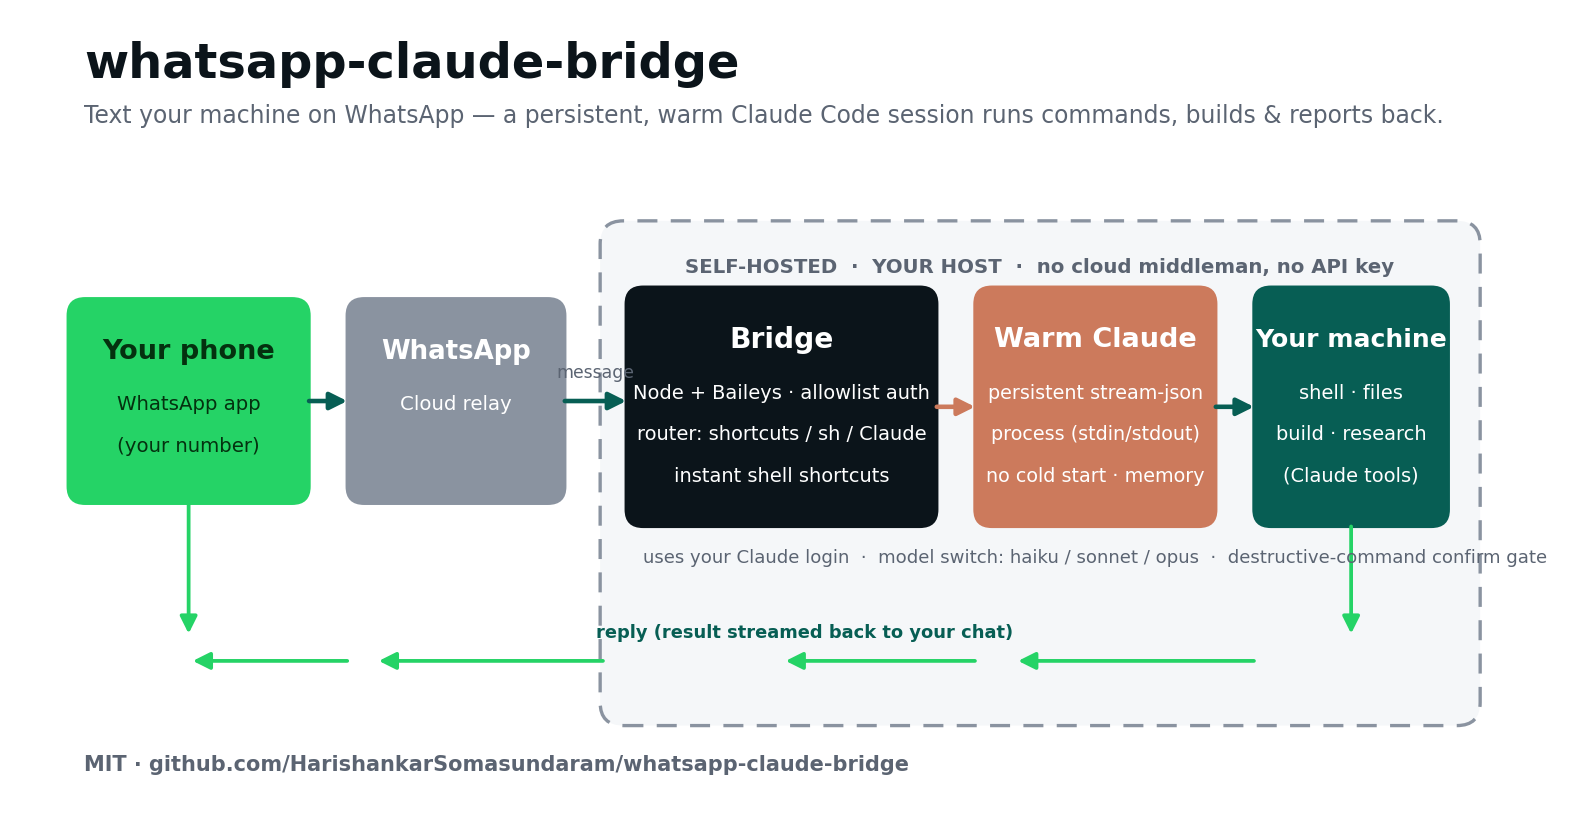
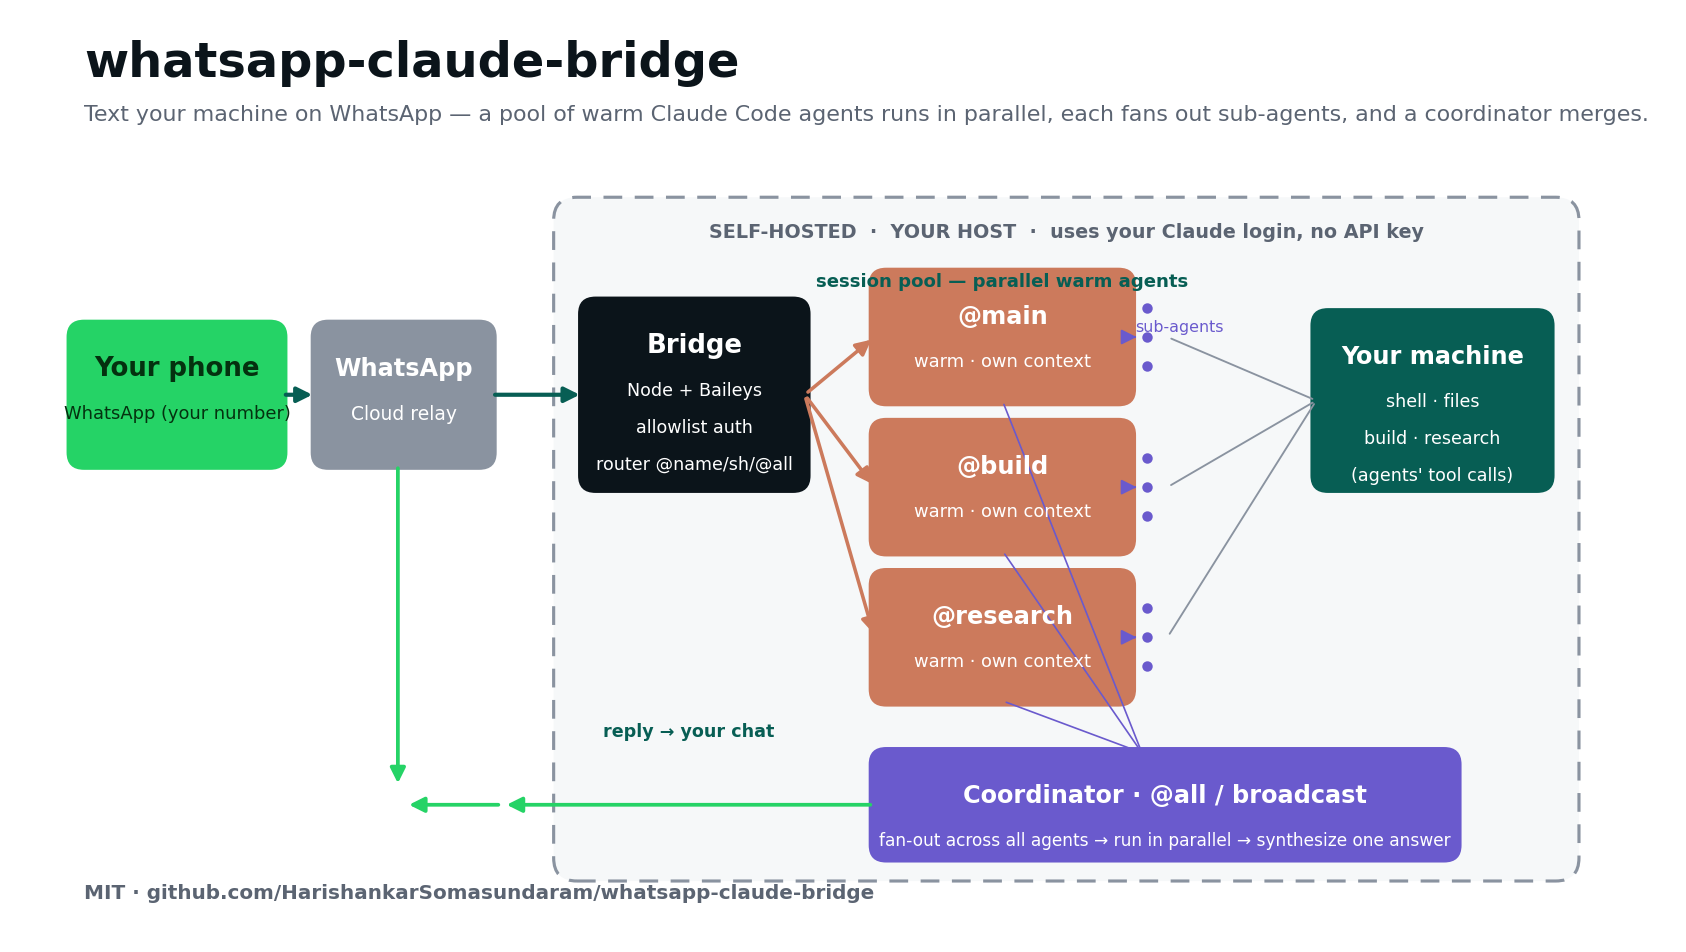
feat: bridge-level multi-agent — parallel named sessions + coordinator
- Session pool: @<name> spawns an independent warm Claude process; different
  agents run concurrently, each with its own context and serialized turns.
- @all/broadcast fans one instruction across all active agents in parallel,
  then a coordinator session synthesizes one merged answer.
- New commands: @name, @all/broadcast, agents, stop <name>, @name use/reset.
- Add TECHNICAL.md (concurrency model + command reference); update README +
  architecture diagram to show the pool + coordinator.

diff --git a/index.js b/index.js
@@ -1,4 +1,5 @@
-// whatsapp-claude-bridge — drive Claude Code (or a shell) on your own machine over WhatsApp.
+// whatsapp-claude-bridge — drive Claude Code on your own machine over WhatsApp.
+// Multi-agent: named concurrent warm sessions (@build, @research…) + a broadcast coordinator.
 // Config via env vars (see .env.example). SECURITY: read the README before running.
 const { default: makeWASocket, useMultiFileAuthState, DisconnectReason, fetchLatestBaileysVersion } = require("@whiskeysockets/baileys");
 const { Boom } = require("@hapi/boom");
@@ -12,74 +13,70 @@ const CLAUDE = process.env.CLAUDE_BIN || "claude";
 const WORK_DIR = process.env.WORK_DIR || process.env.HOME || process.cwd();
 const TURN_TIMEOUT = Number(process.env.TURN_TIMEOUT_MS || 240000);
 const SHELL_TIMEOUT = Number(process.env.SHELL_TIMEOUT_MS || 300000);
-let model = process.env.CLAUDE_MODEL || "sonnet";
+let defaultModel = process.env.CLAUDE_MODEL || "sonnet";
+const DEFAULT = "main";
 const AUTH = __dirname + "/auth";
 const QRPNG = __dirname + "/qr.png";
 const STARTED = Math.floor(Date.now() / 1000);
 if (!ALLOWED.size) console.warn("⚠  WA_ALLOWED is empty — the bot will ignore ALL messages. Set it (see README) before use.");
 
-// destructive shell commands require an explicit CONFIRM reply
 const DANGER = /(\brm\s+-rf?\b|\bmkfs|\bdd\s+if=|\b(shutdown|reboot|halt|poweroff)\b|>\s*\/dev\/[sn]|\buserdel\b|\bfdisk\b|:\(\)\s*\{|\bkill\s+-9\s+-1\b)/i;
-
-// exact-match shell shortcuts (instant, skip Claude). Edit freely for your box.
 const SHORTCUTS = {
   gpu: 'nvidia-smi --query-gpu=temperature.gpu,power.draw,memory.used,memory.total,utilization.gpu --format=csv,noheader 2>/dev/null || echo "no nvidia-smi"',
   disk: 'df -h -x tmpfs -x devtmpfs 2>/dev/null | head -20',
   mem: 'free -h',
   uptime: 'uptime',
 };
-
 let pending = null, pendingAt = 0;
 const sentIds = new Set();
-const HELP = () => [
-  "🤖 Remote Claude (warm session)",
-  "Talk in plain English — I run commands, build, research, report back, with memory.",
-  "",
-  "Instant (skip Claude): " + Object.keys(SHORTCUTS).join(" · ") + " · sh <cmd>",
-  "Control:",
-  "• use haiku | sonnet | opus  (now: " + model + ")",
-  "• reset — fresh conversation",
-  "• help",
-].join("\n");
 
-// ---------- persistent Claude session (stream-json over stdin/stdout) ----------
-let cp = null, buf = "", turnResolve = null, turnText = "", turnTimer = null;
-function spawnClaude(){
-  cp = spawn(CLAUDE, ["-p","--input-format","stream-json","--output-format","stream-json","--verbose","--dangerously-skip-permissions","--model", model],
+// ---------- session pool: name -> independent warm Claude process ----------
+const sessions = new Map();
+function getSession(name){
+  let s = sessions.get(name);
+  if (!s){ s = { name, model: defaultModel, cp: null, buf: "", turnResolve: null, turnText: "", turnTimer: null, chain: Promise.resolve() }; sessions.set(name, s); }
+  return s;
+}
+function finishTurn(s, text){ if (s.turnTimer){ clearTimeout(s.turnTimer); s.turnTimer = null; } const r = s.turnResolve; s.turnResolve = null; s.turnText = ""; if (r) r(text); }
+function restartSession(s){ if (s && s.cp){ try { s.cp.kill("SIGTERM"); } catch(e){} s.cp = null; } }
+function spawnSession(s){
+  s.cp = spawn(CLAUDE, ["-p","--input-format","stream-json","--output-format","stream-json","--verbose","--dangerously-skip-permissions","--model", s.model],
     { cwd: WORK_DIR, env: { ...process.env } });
-  buf = "";
-  cp.stdout.on("data", d => {
-    buf += d.toString(); let i;
-    while ((i = buf.indexOf("\n")) >= 0){
-      const line = buf.slice(0, i); buf = buf.slice(i + 1);
+  s.buf = "";
+  s.cp.stdout.on("data", d => {
+    s.buf += d.toString(); let i;
+    while ((i = s.buf.indexOf("\n")) >= 0){
+      const line = s.buf.slice(0, i); s.buf = s.buf.slice(i + 1);
       if (!line.trim()) continue;
       let ev; try { ev = JSON.parse(line); } catch(e){ continue; }
       if (ev.type === "assistant" && ev.message && Array.isArray(ev.message.content)){
-        for (const c of ev.message.content){ if (c.type === "text" && c.text) turnText += c.text; }
+        for (const c of ev.message.content){ if (c.type === "text" && c.text) s.turnText += c.text; }
       } else if (ev.type === "result"){
-        const final = (typeof ev.result === "string" && ev.result.trim()) ? ev.result : turnText;
-        finishTurn(final || "(no output)");
+        finishTurn(s, (typeof ev.result === "string" && ev.result.trim()) ? ev.result : (s.turnText || "(no output)"));
       }
     }
   });
-  cp.stderr.on("data", () => {});
-  cp.on("exit", (code) => { console.log("claude session exited " + code); cp = null; if (turnResolve) finishTurn("⚠ session ended — resend to restart it."); });
-  console.log("claude session spawned (model=" + model + ")");
+  s.cp.stderr.on("data", () => {});
+  s.cp.on("exit", (code) => { console.log("[" + s.name + "] session exited " + code); s.cp = null; if (s.turnResolve) finishTurn(s, "⚠ session ended — resend to restart it."); });
+  console.log("[" + s.name + "] session spawned (model=" + s.model + ")");
 }
-function finishTurn(text){ if (turnTimer){ clearTimeout(turnTimer); turnTimer = null; } const r = turnResolve; turnResolve = null; turnText = ""; if (r) r(text); }
-function ask(msg){
+function askRaw(s, msg){
   return new Promise((resolve) => {
-    if (!cp){ spawnClaude(); }
-    turnText = ""; turnResolve = resolve;
-    turnTimer = setTimeout(() => { if (turnResolve){ finishTurn("⏱ that took too long — I restarted the session. Please resend."); restartSession(); } }, TURN_TIMEOUT);
-    try { cp.stdin.write(JSON.stringify({ type: "user", message: { role: "user", content: [{ type: "text", text: msg }] } }) + "\n"); }
-    catch(e){ finishTurn("⚠ couldn't reach the session: " + e.message); }
+    if (!s.cp) spawnSession(s);
+    s.turnText = ""; s.turnResolve = resolve;
+    s.turnTimer = setTimeout(() => { if (s.turnResolve){ finishTurn(s, "⏱ [" + s.name + "] timed out — session restarted, resend."); restartSession(s); } }, TURN_TIMEOUT);
+    try { s.cp.stdin.write(JSON.stringify({ type: "user", message: { role: "user", content: [{ type: "text", text: msg }] } }) + "\n"); }
+    catch(e){ finishTurn(s, "⚠ [" + s.name + "] couldn't reach session: " + e.message); }
   });
 }
-function restartSession(){ if (cp){ try { cp.kill("SIGTERM"); } catch(e){} cp = null; } }
-// serialize turns (one conversation)
-let chain = Promise.resolve();
-function enqueue(fn){ chain = chain.then(fn).catch(e => console.error("turn err", e?.message)); return chain; }
+// per-session serialization; different sessions run in PARALLEL. Returns this turn's result.
+function ask(name, msg){
+  const s = getSession(name);
+  const run = () => askRaw(s, msg);
+  const p = s.chain.then(run, run);
+  s.chain = p.then(() => {}, () => {});
+  return p;
+}
 
 // ---------- helpers ----------
 async function reply(sock, jid, text){
@@ -90,6 +87,70 @@ function shell(cmd, cb){
   exec("bash -lc " + JSON.stringify(cmd), { timeout: SHELL_TIMEOUT, maxBuffer: 1024*1024*16, env: { ...process.env }, cwd: WORK_DIR },
     (err, so, se) => { let out = (so||""); if (se) out += (out?"\n":"") + "[stderr] " + se; if (err && !out) out = "ERROR: " + err.message; else if (err) out += "\n[exit " + (err.code||"?") + "]"; cb((out||"(no output)").trim()); });
 }
+function listAgents(){
+  if (!sessions.size) return "no agents yet — start one with `@build <task>`";
+  return "agents:\n" + [...sessions.values()].map(s => "• @" + s.name + " (" + s.model + ") " + (s.cp ? (s.turnResolve ? "working" : "idle") : "stopped")).join("\n");
+}
+const HELP = () => [
+  "🤖 Remote Claude — multi-agent",
+  "Talk in plain English → the `main` agent (runs tools, fans out subagents, remembers context).",
+  "",
+  "Multiple agents (run in parallel):",
+  "• @<name> <task>  — send to a named agent (created on first use), e.g. `@build fix the test`",
+  "• @all <task>  (or `broadcast <task>`) — fan one task across ALL active agents, then merge",
+  "• agents — list them · stop <name> — end one · @<name> reset — fresh",
+  "",
+  "Instant (skip Claude): " + Object.keys(SHORTCUTS).join(" · ") + " · sh <cmd>",
+  "Model: use haiku|sonnet|opus (new agents) · @<name> use <model> · now: " + defaultModel,
+  "reset · help",
+].join("\n");
+
+async function broadcast(sock, jid, instruction){
+  const names = [...sessions.keys()].filter(n => n !== "coordinator" && sessions.get(n).cp);
+  if (!names.length){ await reply(sock, jid, "no active agents to broadcast to — start some with `@name <task>`"); return; }
+  await reply(sock, jid, "📡 dispatching to " + names.length + " agent(s): " + names.map(n=>"@"+n).join(", "));
+  const results = await Promise.all(names.map(n => ask(n, instruction).then(r => ({ n, r })).catch(e => ({ n, r: "(error) " + (e?.message||e) }))));
+  const merged = await ask("coordinator",
+    "You are a coordinator merging parallel agents' outputs. Instruction was:\n\"" + instruction + "\"\n\n" +
+    results.map(x => "### agent @" + x.n + "\n" + x.r).join("\n\n") +
+    "\n\nSynthesize ONE concise, reconciled answer. Call out any disagreements or gaps.");
+  await reply(sock, jid, "🧩 merged (" + names.length + " agents):\n" + merged);
+}
+
+async function handle(sock, jid, msg){
+  if (/^(help|commands)$/i.test(msg)) return reply(sock, jid, HELP());
+  if (/^agents$|^sessions$/i.test(msg)) return reply(sock, jid, listAgents());
+  let mm = msg.match(/^stop\s+@?([a-z0-9_-]{1,24})$/i);
+  if (mm){ const s = sessions.get(mm[1].toLowerCase()); if (s){ restartSession(s); sessions.delete(mm[1].toLowerCase()); return reply(sock, jid, "🛑 stopped @" + mm[1].toLowerCase()); } return reply(sock, jid, "no such agent"); }
+  let bc = msg.match(/^(?:@all|broadcast)\s+([\s\S]+)$/i);
+  if (bc) return broadcast(sock, jid, bc[1].trim());
+  // global model default
+  mm = msg.match(/^use\s+(haiku|sonnet|opus)$/i);
+  if (mm){ defaultModel = mm[1].toLowerCase(); return reply(sock, jid, "✅ default model → " + defaultModel + " (applies to new agents; use `@name use " + defaultModel + "` for an existing one)"); }
+  if (/^(reset|new|clear)$/i.test(msg)){ restartSession(getSession(DEFAULT)); return reply(sock, jid, "🔄 @main reset."); }
+  if (/^confirm$/i.test(msg)){
+    if (pending && (Date.now()-pendingAt) < 120000){ const c = pending; pending = null; await reply(sock, jid, "▶ " + c); return shell(c, o => reply(sock, jid, o)); }
+    return reply(sock, jid, "nothing pending");
+  }
+  if (/^sh\s+/i.test(msg)){
+    const cmd = msg.replace(/^sh\s+/i, "");
+    if (DANGER.test(cmd)){ pending = cmd; pendingAt = Date.now(); return reply(sock, jid, "⚠ destructive:\n" + cmd + "\n\nreply CONFIRM within 2 min"); }
+    return shell(cmd, o => reply(sock, jid, o));
+  }
+  if (SHORTCUTS[msg.toLowerCase().trim()]) return shell(SHORTCUTS[msg.toLowerCase().trim()], o => reply(sock, jid, o));
+  // targeted agent?  "@name <body>"
+  let target = DEFAULT, body = msg;
+  const at = msg.match(/^@([a-z0-9_-]{1,24})\s+([\s\S]+)$/i);
+  if (at){ target = at[1].toLowerCase(); body = at[2].trim(); }
+  // per-agent control words
+  if (/^reset$/i.test(body)){ restartSession(getSession(target)); return reply(sock, jid, "🔄 @" + target + " reset."); }
+  const um = body.match(/^use\s+(haiku|sonnet|opus)$/i);
+  if (um){ const s = getSession(target); s.model = um[1].toLowerCase(); restartSession(s); return reply(sock, jid, "✅ @" + target + " → " + s.model); }
+  // dispatch (non-blocking so other agents run in parallel)
+  await reply(sock, jid, "🤖 @" + target + " on it… (" + getSession(target).model + ")");
+  ask(target, body).then(out => reply(sock, jid, (target === DEFAULT ? "" : "@" + target + ":\n") + out));
+}
+
 async function start(){
   const { state, saveCreds } = await useMultiFileAuthState(AUTH);
   const { version } = await fetchLatestBaileysVersion();
@@ -97,8 +158,8 @@ async function start(){
   sock.ev.on("creds.update", saveCreds);
   sock.ev.on("connection.update", async (u) => {
     const { connection, lastDisconnect, qr } = u;
-    if (qr){ try { await qrcode.toFile(QRPNG, qr, { width: 560, margin: 2 }); console.log("QR updated -> " + QRPNG + " (scan it with the bot's WhatsApp: Linked Devices)"); } catch(e){} }
-    if (connection === "open"){ console.log("CONNECTED"); if (!cp) spawnClaude(); }
+    if (qr){ try { await qrcode.toFile(QRPNG, qr, { width: 560, margin: 2 }); console.log("QR updated -> " + QRPNG + " (scan with the bot's WhatsApp: Linked Devices)"); } catch(e){} }
+    if (connection === "open"){ console.log("CONNECTED"); const m = getSession(DEFAULT); if (!m.cp) spawnSession(m); }
     if (connection === "close"){
       const code = (lastDisconnect?.error instanceof Boom) ? lastDisconnect.error.output?.statusCode : 0;
       console.log("closed code=" + code);
@@ -110,28 +171,12 @@ async function start(){
     for (const m of messages){
       const jid = m.key.remoteJid;
       if (m.key.fromMe || sentIds.has(m.key.id)) continue;
-      if (!ALLOWED.has(jid)){ if (!m.key.fromMe) console.log("ignored msg from " + jid + " (add to WA_ALLOWED to authorize)"); continue; }
+      if (!ALLOWED.has(jid)){ console.log("ignored msg from " + jid + " (add to WA_ALLOWED to authorize)"); continue; }
       if (Number(m.messageTimestamp||0) < STARTED - 30) continue;
       const msg = ((m.message?.conversation) || (m.message?.extendedTextMessage?.text) || "").trim();
       if (!msg) continue;
       console.log("MSG " + JSON.stringify(msg));
-      if (/^(help|commands)$/i.test(msg)){ await reply(sock, jid, HELP()); continue; }
-      if (/^(reset|new|clear)$/i.test(msg)){ restartSession(); await reply(sock, jid, "🔄 Fresh conversation (session restarted)."); continue; }
-      const mm = msg.match(/^use\s+(haiku|sonnet|opus)$/i);
-      if (mm){ model = mm[1].toLowerCase(); restartSession(); await reply(sock, jid, "✅ Model → " + model + " (session restarted)."); continue; }
-      if (/^confirm$/i.test(msg)){
-        if (pending && (Date.now()-pendingAt) < 120000){ const c = pending; pending = null; await reply(sock, jid, "▶ " + c); shell(c, o => reply(sock, jid, o)); }
-        else await reply(sock, jid, "nothing pending"); continue;
-      }
-      if (/^sh\s+/i.test(msg)){
-        const cmd = msg.replace(/^sh\s+/i, "");
-        if (DANGER.test(cmd)){ pending = cmd; pendingAt = Date.now(); await reply(sock, jid, "⚠ destructive:\n" + cmd + "\n\nreply CONFIRM within 2 min"); continue; }
-        shell(cmd, o => reply(sock, jid, o)); continue;
-      }
-      if (SHORTCUTS[msg.toLowerCase().trim()]){ shell(SHORTCUTS[msg.toLowerCase().trim()], o => reply(sock, jid, o)); continue; }
-      // warm Claude session, serialized (instant ack so you always get feedback)
-      await reply(sock, jid, "🤖 on it… (" + model + ")");
-      enqueue(async () => { const out = await ask(msg); await reply(sock, jid, out); });
+      handle(sock, jid, msg).catch(e => console.error("handle err", e?.message));
     }
   });
 }

diff --git a/TECHNICAL.md b/TECHNICAL.md
@@ -1,0 +1,62 @@
+# Technical deep-dive
+
+Two layers. The transport is deliberately simple; the concurrency lives in the agent layer and the session pool.
+
+## Layer 1 — transport (Node + Baileys)
+
+- Links a spare WhatsApp account as a **linked device** ([Baileys](https://github.com/WhiskeySockets/Baileys)); one-time QR scan, credentials persisted under `./auth`.
+- Every inbound message is checked against `WA_ALLOWED` (WhatsApp's per-contact **LID**, or a phone JID). The allowlist is the **only** authentication.
+- The router classifies each message: instant shortcut, `sh` raw shell, a control word (`agents`, `use`, `reset`, `stop`), a coordinator command (`@all`/`broadcast`), or an agent turn (`@name …`, default `@main`).
+- **IPv4:** WhatsApp's socket 408-times-out on hosts with broken IPv6 egress — run with `NODE_OPTIONS=--dns-result-order=ipv4first` (the systemd unit sets it).
+
+## Layer 2 — the session pool (where parallel lives)
+
+Each **named agent** is its own long-lived `claude` process in **stream-json** mode over stdin/stdout:
+
+```
+claude -p --input-format stream-json --output-format stream-json \
+       --verbose --dangerously-skip-permissions --model <model>
+```
+
+- **Warm:** the process stays alive across turns, so there's **no per-message cold start** and each agent keeps its **own conversation context**.
+- **Per-agent serialization:** turns within one agent run one-at-a-time through a promise chain — a single stdin pipe is one ordered channel, so interleaving would corrupt context. A per-agent watchdog (`TURN_TIMEOUT_MS`) restarts a stuck turn instead of blocking its queue.
+- **Cross-agent parallelism:** different agents are independent processes with independent chains, so `@build …` and `@research …` run **concurrently**. The message handler dispatches without blocking (`ask(name, body).then(reply)`), so nothing serializes across agents.
+
+```
+ask(name, msg):
+  s = pool[name] || spawn()      # lazily create a warm session
+  s.chain = s.chain.then(() => writeTurn(s, msg))   # serialize within agent
+  return thisTurnsResult          # but return immediately to the caller
+```
+
+## Two kinds of "multi-agent"
+
+1. **Within one agent (automatic).** Because each session is full Claude Code, a *single* instruction can fan out: parallel tool calls, and the **Agent/Task tool** spawning independent sub-agents (each with its own context window) that run concurrently and are then synthesized — map-reduce for one message. You don't ask for it; the lead agent decides.
+2. **Across agents (explicit, via this bridge).** You run a **team of named agents in parallel** and coordinate them:
+   - `@build …`, `@research …` — separate concurrent workers, each with its own memory.
+   - `@all <task>` / `broadcast <task>` — fan one instruction across **every active agent** in parallel (`Promise.all`), then a dedicated `coordinator` session **synthesizes one reconciled answer**, flagging disagreements.
+
+So one WhatsApp thread drives a fleet of warm agents, each of which can itself fan out further.
+
+## Command reference
+
+| Command | Effect |
+|---|---|
+| `<plain text>` | Turn on `@main` (fans out sub-agents as needed) |
+| `@<name> <task>` | Turn on a named agent (created on first use); agents run in parallel |
+| `@all <task>` · `broadcast <task>` | Fan the task across all active agents, then merge via the coordinator |
+| `agents` | List agents + model + state (idle/working/stopped) |
+| `stop <name>` | Terminate an agent |
+| `@<name> reset` · `reset` | Fresh context for that agent (`reset` = `@main`) |
+| `use <model>` | Default model for **new** agents (`haiku`/`sonnet`/`opus`) |
+| `@<name> use <model>` | Switch an existing agent's model (restarts it) |
+| `sh <cmd>` | Raw shell, instant (skips Claude) |
+| `gpu` · `disk` · `mem` · `uptime` | Instant exact-match shortcuts (edit `SHORTCUTS`) |
+| `CONFIRM` | Approve a pending destructive shell command |
+| `help` | Command list |
+
+## Failure handling
+
+- A crashed agent process is respawned on its next turn; an in-flight turn resolves with a notice.
+- A turn exceeding `TURN_TIMEOUT_MS` restarts just that agent — other agents are unaffected.
+- Bot replies are tracked by message id so the bridge never treats its own messages as commands.

diff --git a/README.md b/README.md
@@ -1,6 +1,6 @@
 # whatsapp-claude-bridge
 
-Drive **Claude Code** (or a plain shell) on your own machine from **WhatsApp**. Text your homelab/server in plain English — it runs commands, inspects files, builds, researches, and reports back — with a **persistent, warm Claude session** so there's no per-message cold start.
+Drive **Claude Code** (or a plain shell) on your own machine from **WhatsApp**. Text your homelab/server in plain English — it runs commands, inspects files, builds, researches, and reports back — from a **pool of persistent, warm agents that run in parallel** (`@build`, `@research`, …), with a coordinator that merges their work. No per-message cold start.
 
 Self-hosted, no cloud middleman, no API key: it links a spare WhatsApp account with [Baileys](https://github.com/WhiskeySockets/Baileys) and pipes messages into the Claude Code CLI using **your existing Claude login**.
 
@@ -26,8 +26,11 @@ No warranty. You are responsible for what you connect it to.
 
 1. **Baileys** links a WhatsApp account (the "bot") to this process as a linked device (one-time QR scan).
 2. You message the bot from your **own** number; the bridge checks the sender against `WA_ALLOWED`.
-3. Messages route to a **single, long-lived `claude` process** running in stream-json mode over stdin/stdout — so context persists across turns and there's no cold start.
-4. Shortcuts and `sh <cmd>` bypass Claude for instant shell output.
+3. Messages route to a **pool of long-lived `claude` processes** (stream-json over stdin/stdout) — warm, so no cold start, each with its own context.
+4. **Named agents run in parallel** (`@build`, `@research`, …); `@all`/`broadcast` fans one task across them and a coordinator merges. Each agent can itself fan out sub-agents for a single task.
+5. Shortcuts and `sh <cmd>` bypass Claude for instant shell output.
+
+See **[TECHNICAL.md](TECHNICAL.md)** for the concurrency model and full command reference.
 
 ## Prerequisites
 
@@ -68,13 +71,16 @@ See [`wa-bridge.service.example`](wa-bridge.service.example) for a systemd unit 
 
 | You send | Effect |
 |---|---|
-| *plain English* | Handled by the warm Claude session (runs tools, remembers context) |
-| `sh <cmd>` | Run a raw shell command instantly (skips Claude) |
+| *plain English* | Turn on `@main` (runs tools, fans out sub-agents, remembers context) |
+| `@<name> <task>` | Turn on a named agent — created on first use; **agents run in parallel** |
+| `@all <task>` · `broadcast <task>` | Fan one task across all active agents, then **merge** via the coordinator |
+| `agents` | List agents + model + state · `stop <name>` ends one |
+| `@<name> reset` · `reset` | Fresh context for that agent (`reset` = `@main`) |
+| `use haiku`/`sonnet`/`opus` | Default model for new agents · `@<name> use <model>` for an existing one |
+| `sh <cmd>` | Raw shell command, instant (skips Claude) |
 | `gpu` · `disk` · `mem` · `uptime` | Instant shortcuts (edit `SHORTCUTS` in `index.js`) |
-| `use haiku` / `use sonnet` / `use opus` | Switch model (restarts the session) |
-| `reset` | Fresh conversation |
-| `help` | Command list |
 | `CONFIRM` | Approve a pending destructive shell command |
+| `help` | Command list |
 
 ## Troubleshooting
 
@@ -85,7 +91,7 @@ See [`wa-bridge.service.example`](wa-bridge.service.example) for a systemd unit 
 
 ## Notes
 
-- Only **one conversation** at a time (turns are serialized); switching model or `reset` clears context.
+- Each **named agent** keeps its own context and serializes its own turns; **different agents run in parallel**. `stop`, `reset`, or a model switch affects only that agent.
 - A `CLAUDE.md` in `WORK_DIR` becomes the bot's standing instructions — handy for host-specific context, guardrails, or a shared notebook with another Claude.
 
 ## License
